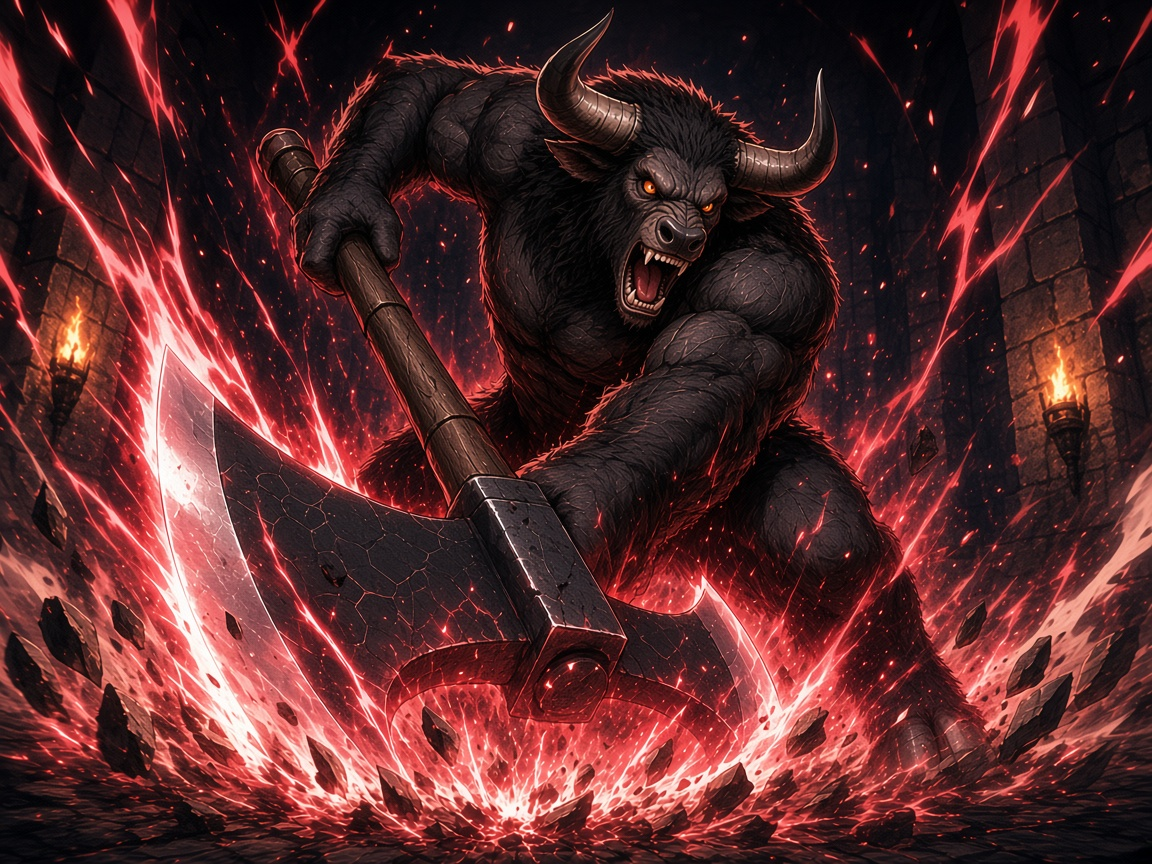
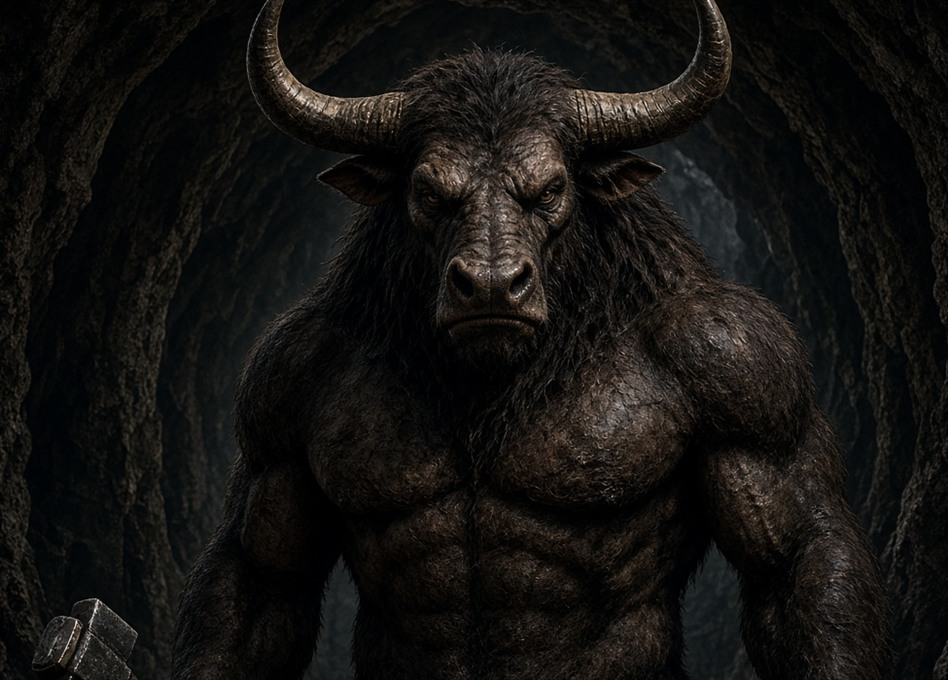
敵の怒り絵をミノタウロス正面バストアップに差し替え（v=2）

diff --git a/index.html b/index.html
@@ -1,4 +1,4 @@
-<!DOCTYPE html>
+<!DOCTYPE html>
 <html lang="ja">
 <head>
   <meta charset="UTF-8" />
@@ -7344,7 +7344,7 @@
       ファイアーボール: "card-fireball.jpg?v=1",
       ファイアソード: "card-firesword.jpg?v=1",
       ファイアパラダイス: "card-fireparadise.jpg?v=1",
-      "怒り（敵）": "card-anger-foe.jpg?v=1",
+      "怒り（敵）": "card-anger-foe.jpg?v=2",
     };
     function cardArtSrc(name) {
       return CARD_ART[name] || "";
@@ -7356,7 +7356,7 @@
         kind: "foe",
         rage: true,
         foeRage: true,
-        image: "card-anger-foe.jpg?v=1",
+        image: "card-anger-foe.jpg?v=2",
         stars: 1,
       },
     };
